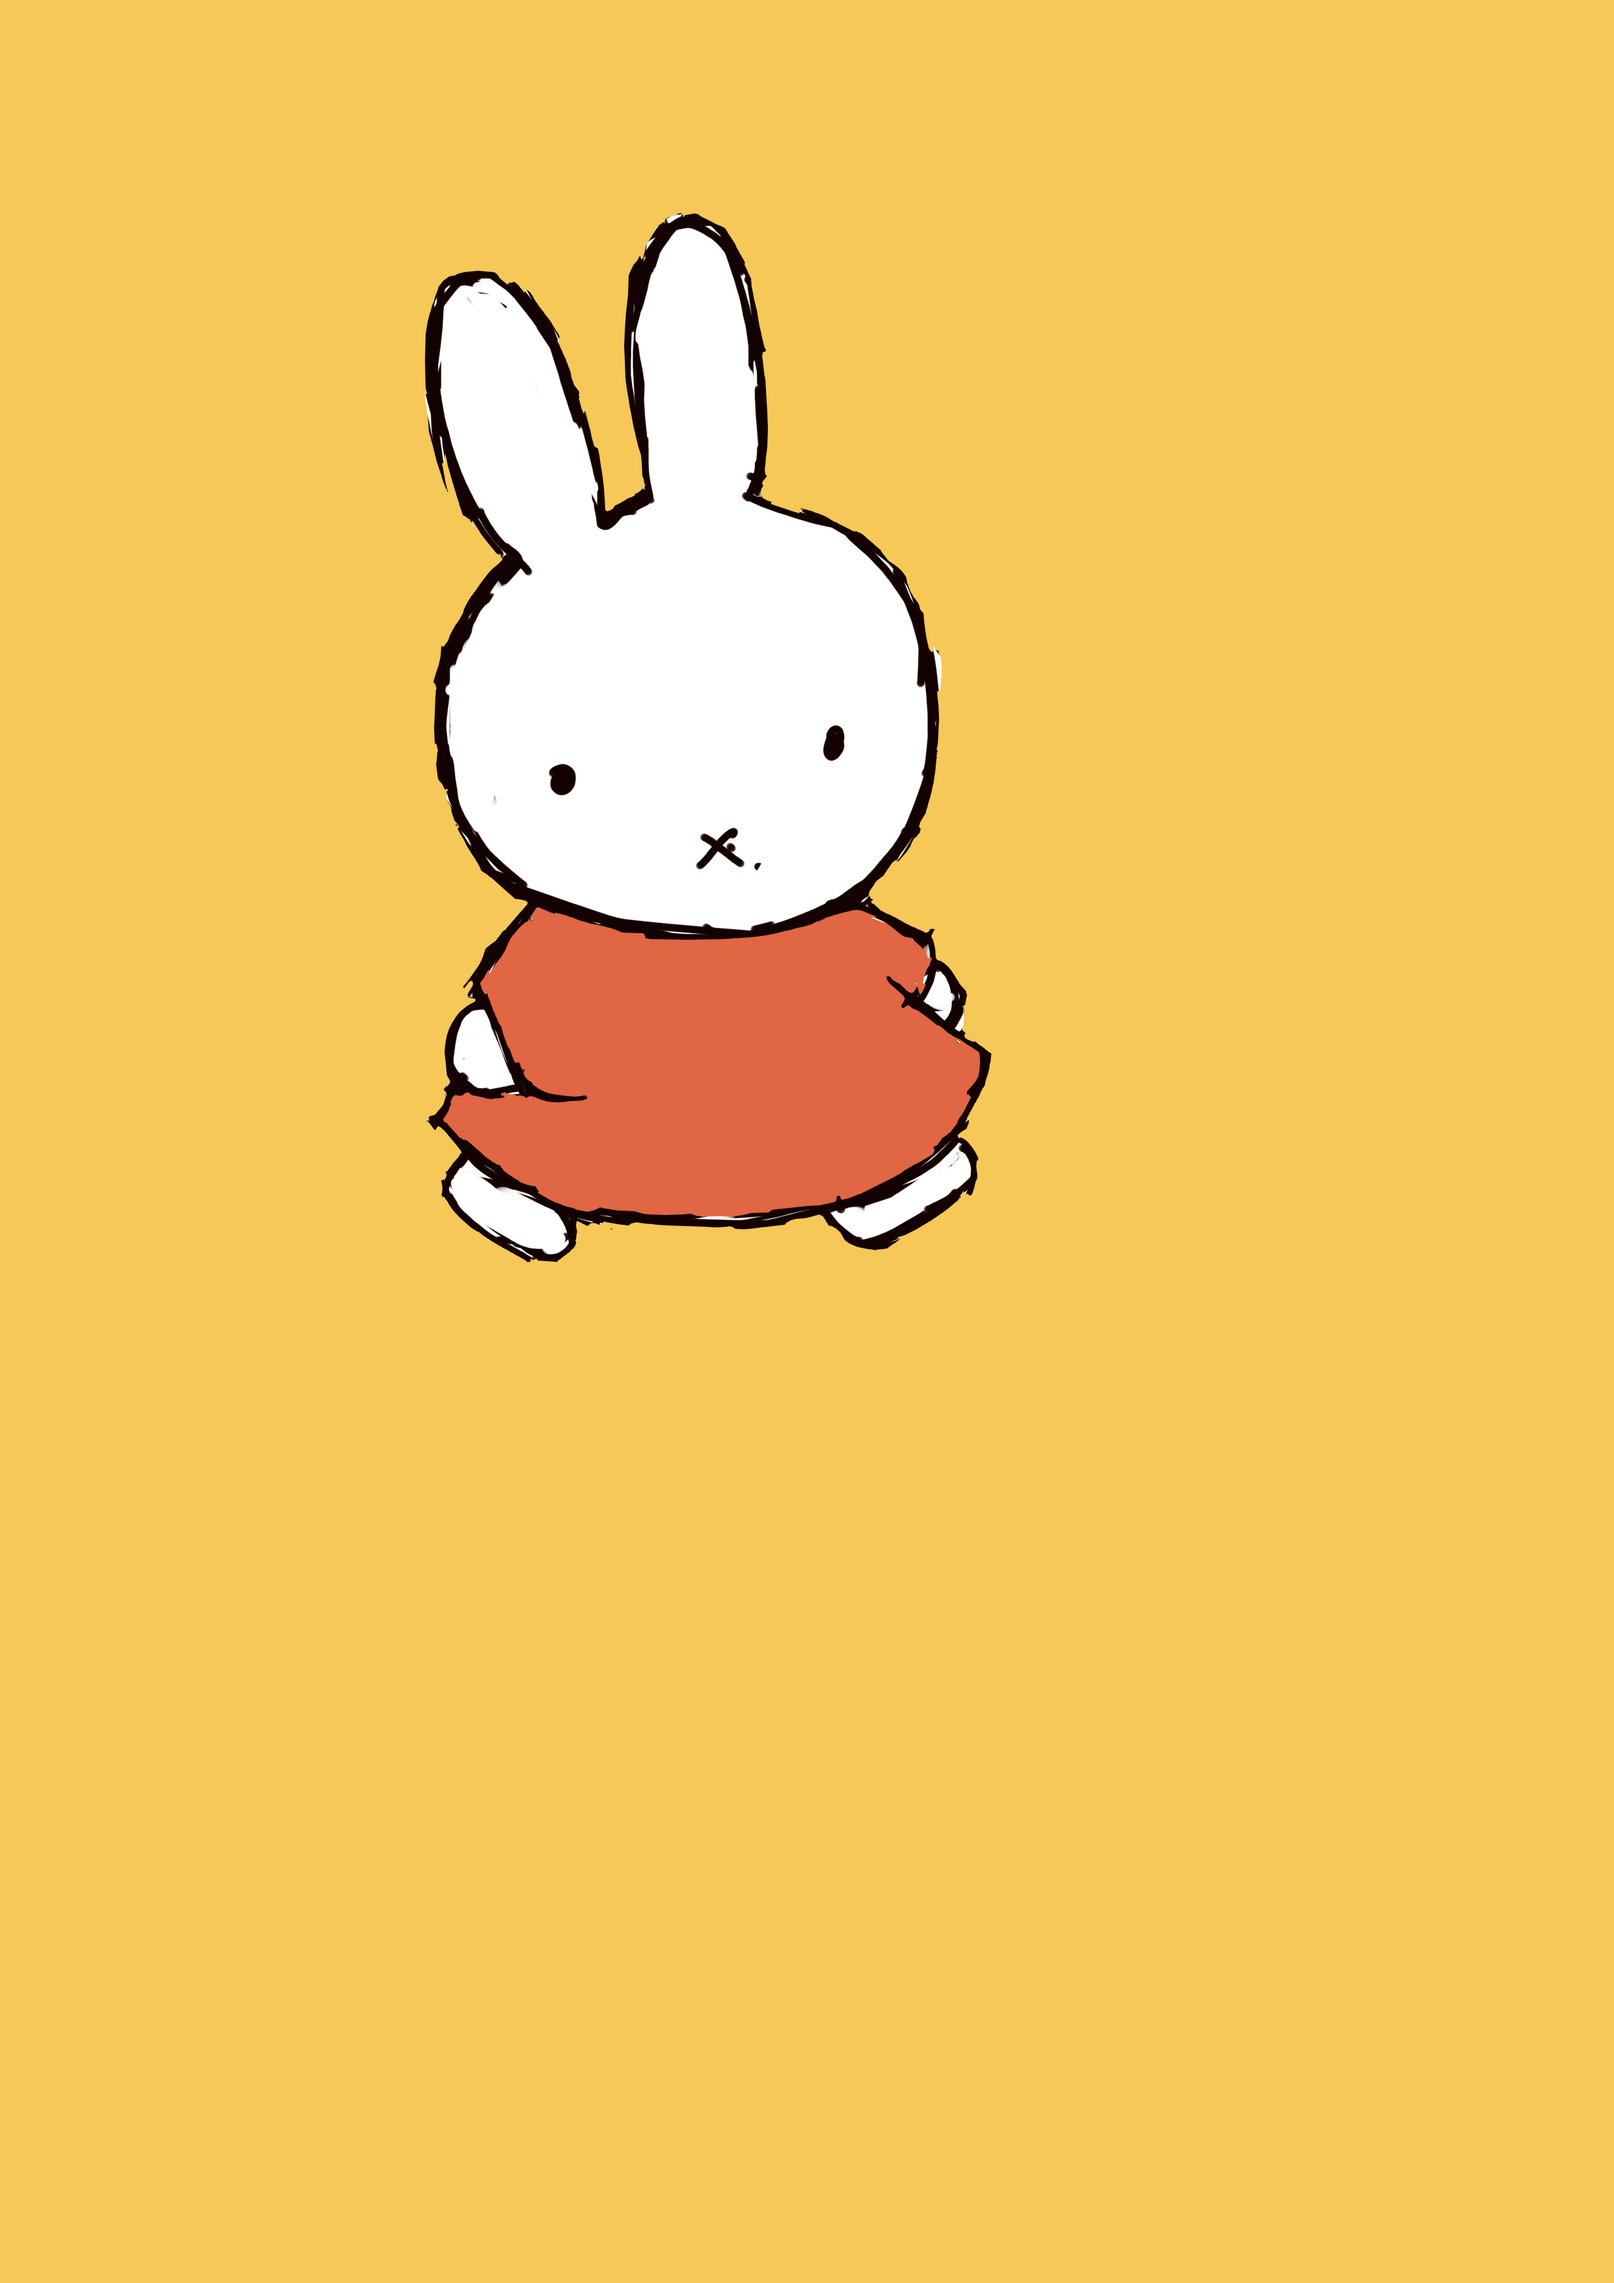
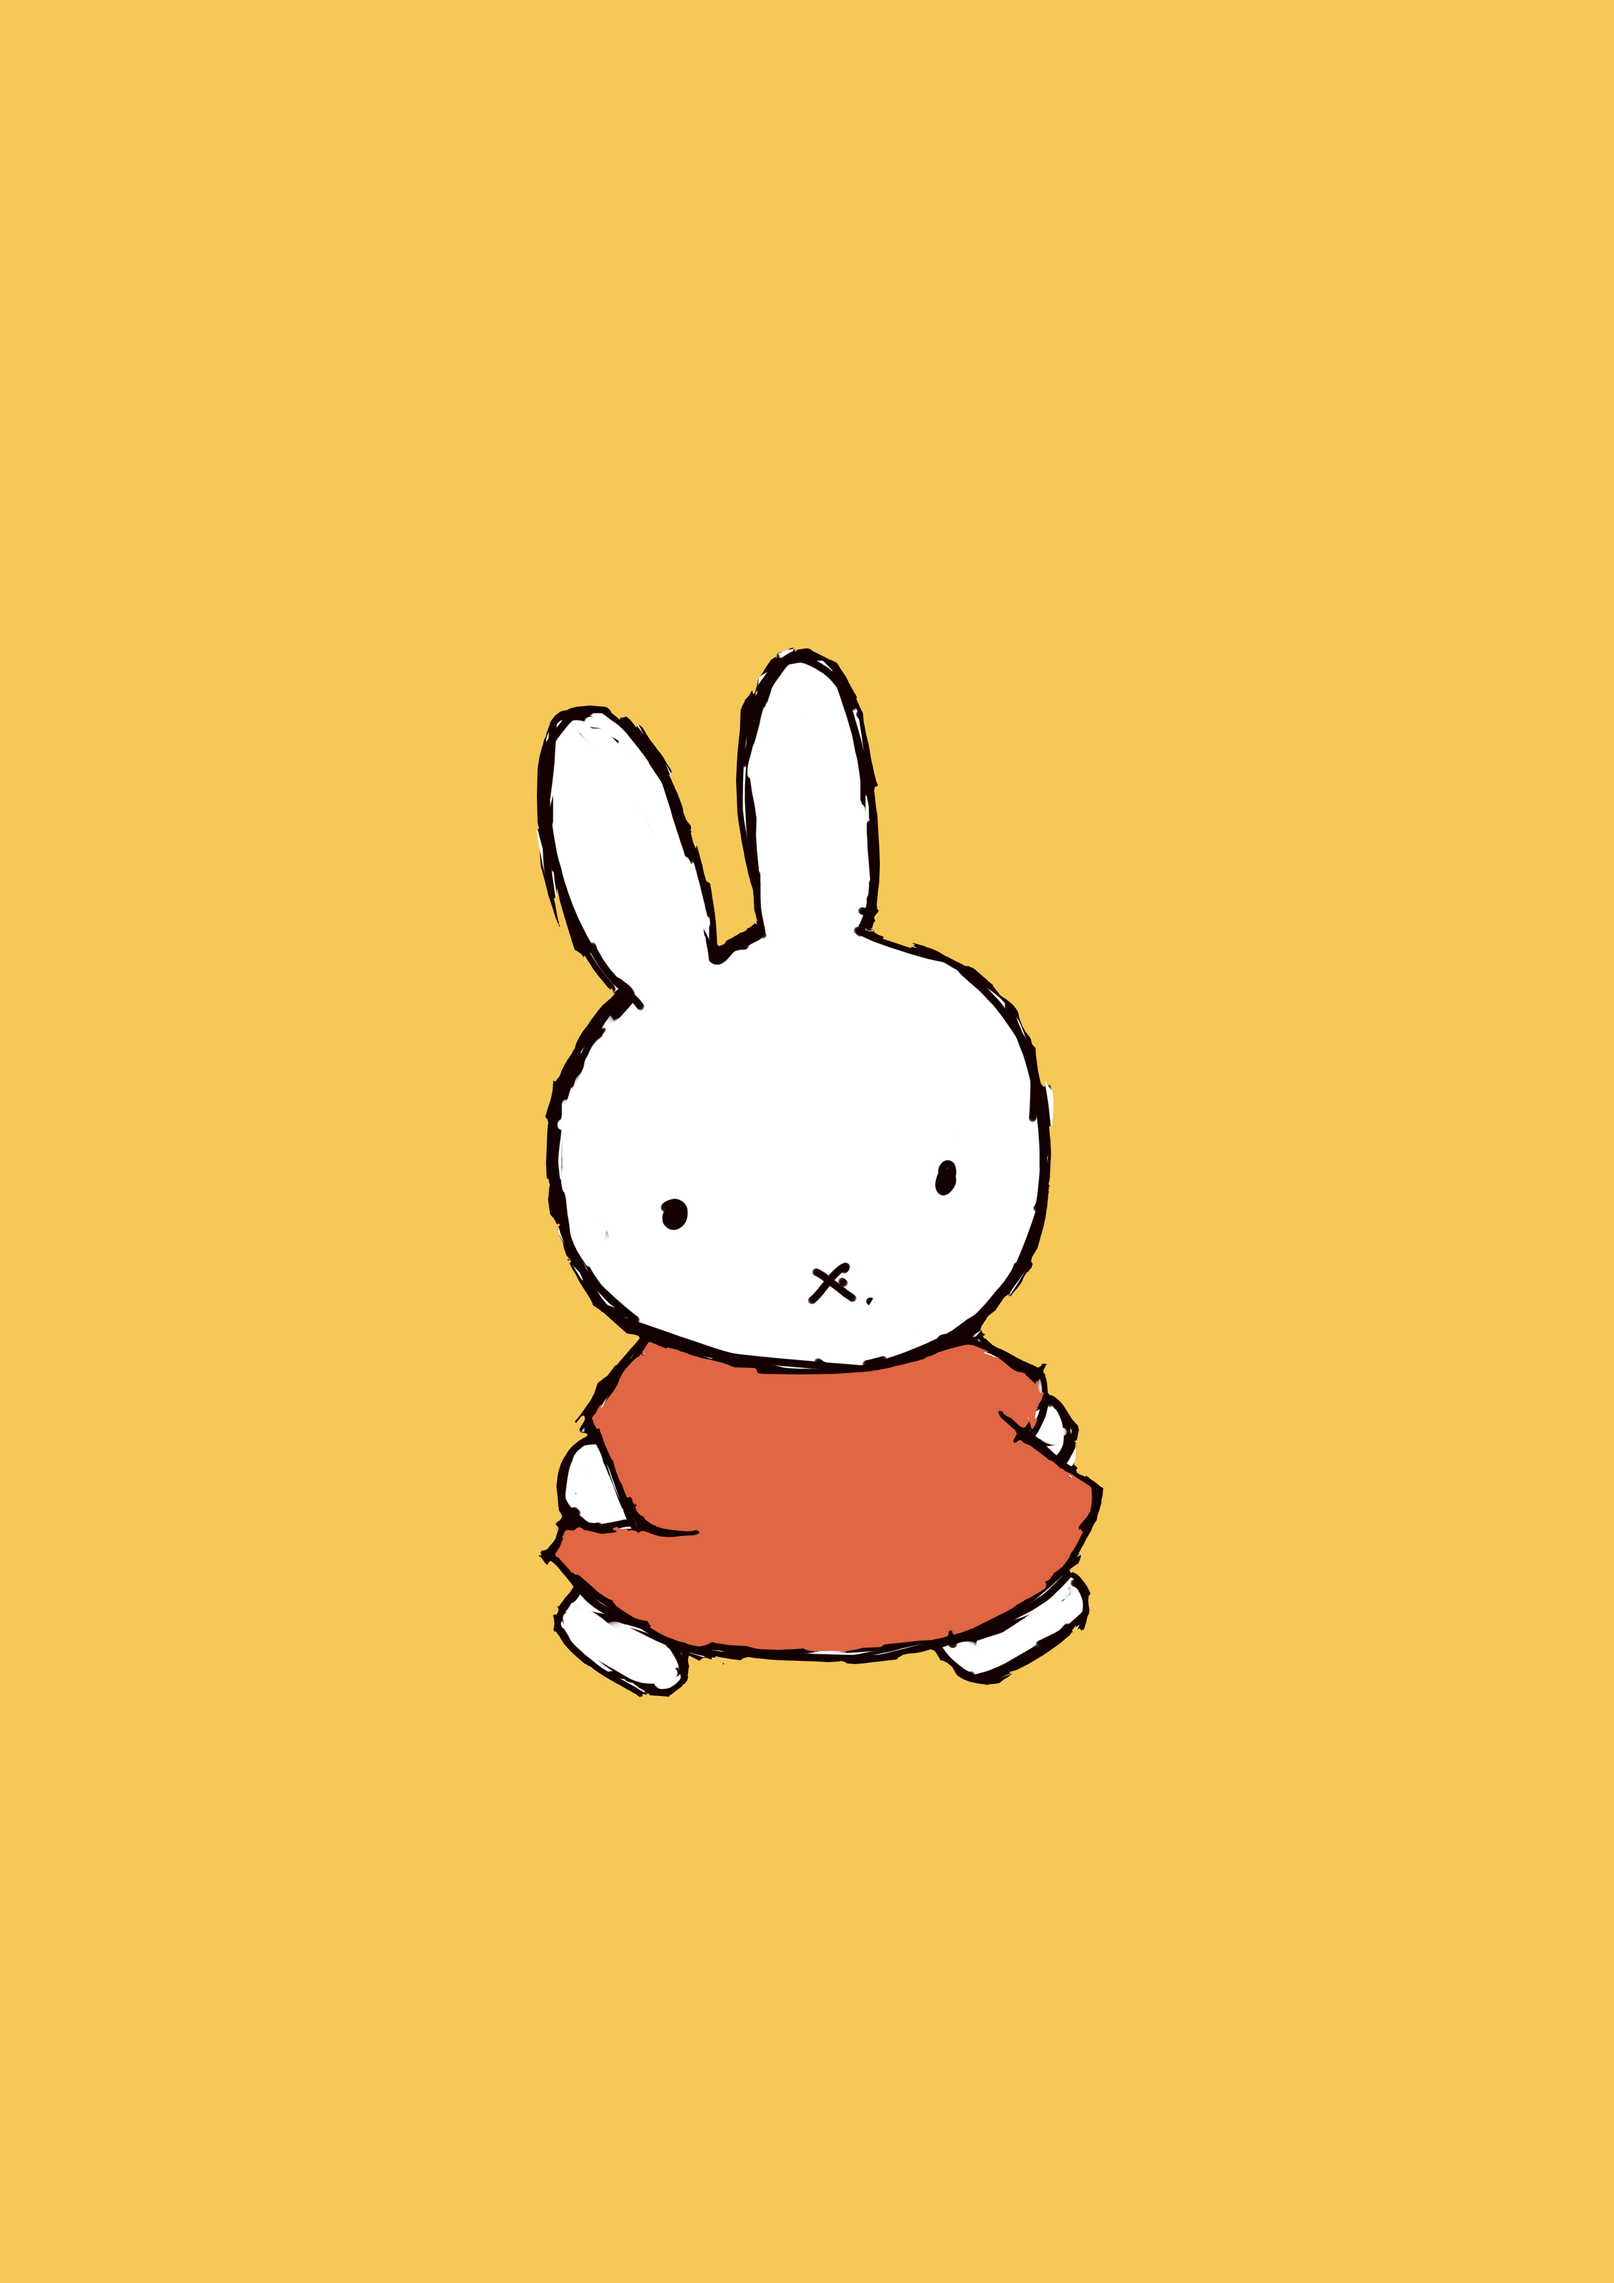
day3

Changed region(s): [[0.2484, 0.0932, 0.6831, 0.7457]]

diff --git a/README.md b/README.md
@@ -5,3 +5,6 @@
 
 ## Day2
 ![miffy2](./miffy2.png)
+
+## Day3
+![miffy3](./miffy3.png)
